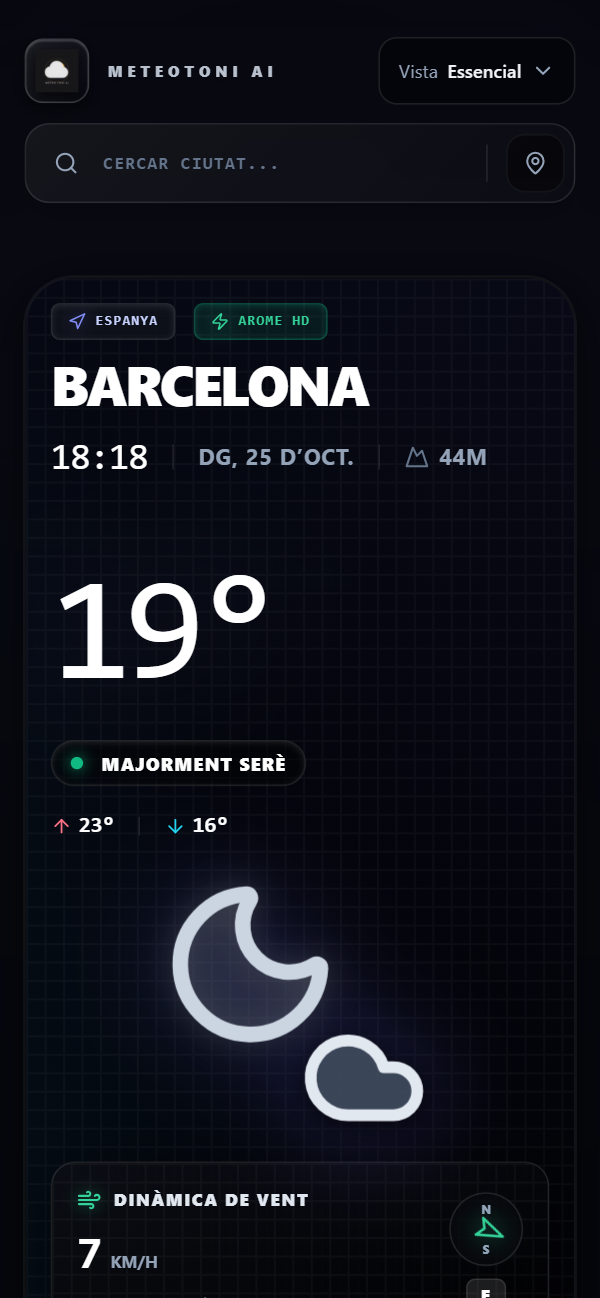
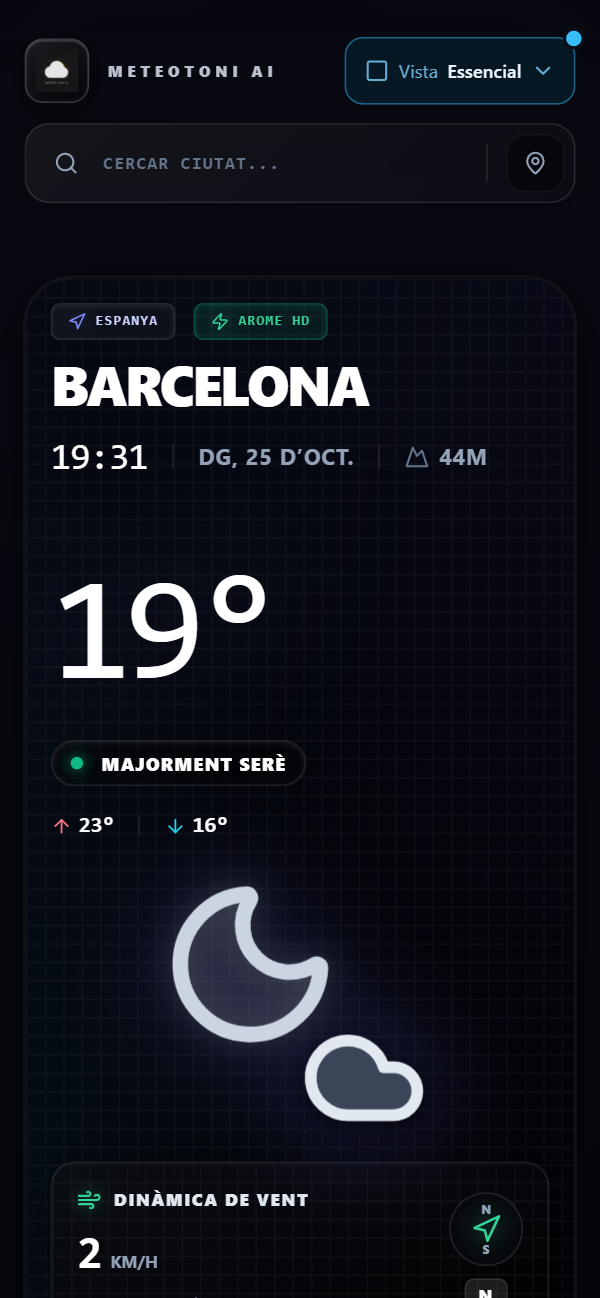
docs(readme): captura del tauler amb el xip «Vista» nou

diff --git a/README.md b/README.md
@@ -232,7 +232,7 @@ Per complementar l'anàlisi tàctica de la IA (horitzó de 6 hores) amb avisos d
 ### 15. Disseny Visual: Spatial UI & Neo-Skeuomorfisme
 Dissenyada sota el concepte de *Dark Dashboard* per facilitar la lectura ràpida sota qualsevol llum:
 * **Benvinguda «Columna del cel»:** la primera pantalla no consulta cap dada i és igual per a tothom: un esquema de l'aire que tens a sobre —núvols baixos, mitjans i alts, amb les mateixes alçades que el giny Capes de núvols— amb el camí del sol a l'hora actual i, de nit, la Lluna amb la fase real. La segona línia del titular pren el color del moment del dia (rosa a l'alba, or al migdia, taronja a la posta i lavanda de nit) i cada capa de la columna té el color de la seva alçada. En entrar, l'arc del dia es dibuixa i el sol (o la Lluna) hi fa el camí des de l'horitzó fins a l'hora d'ara: una sola vegada, en poc més d'un segon, i gens si el sistema demana reduir el moviment. A sobre del titular, l'hora i el moment del dia, amb un sol petit (mig sol a l'alba i a la posta): si ja havies donat permís d'ubicació, a quina hora surt i es pon el sol; si no, matí, migdia o tarda (amb la ciutat de la zona horària, les hores podrien anar mitja hora desviades); de nit, la Lluna dibuixada i la fase dita en paraules de cada dia («Lluna gairebé plena»). Les estrelles no passen mai per darrere del text, i el cercador i els favorits són translúcids: s'hi veu el cel a través. El cel és sempre el del lloc on és el dispositiu: la ciutat de referència de la seva zona horària o, si ja havies donat permís d'ubicació, la teva posició, sense tornar a preguntar; els llocs que consultes no el canvien. «Utilitza la meva ubicació» funciona amb un sol toc i el botó no es queda mai bloquejat: si el permís està denegat, la ubicació no està disponible o el GPS no respon, l'avís en diu la causa i el cercador i els favorits són just a sota. El càlcul del cel es carrega després del primer pintat (el paquet inicial no creix) i no hi ha desenfocaments ni animacions en bucle.
-* **Dues vistes, Essencial i Completa:** la vista essencial ensenya el temps d'ara, les pròximes hores i la setmana; la completa hi afegeix els ginys de detall (vent, pressió, núvols, qualitat de l'aire, sol i lluna…) i els gràfics per models. Es canvia amb el xip «Vista» de la capçalera, que obre un menú amb una frase per a cada vista, i l'app recorda l'última que has triat. A la vista essencial, just després del resum de la IA, la targeta «Vols més detall?» dona a conèixer la completa amb valors d'ara que no s'hi veuen —els mateixos que després diuen els ginys—; si ja l'has provada o toques «Ara no», queda reduïda a una sola línia. Si canvies des de dalt, la pàgina baixa fins on comença el contingut nou. Abans eren dos botons, «Bàsic» i «Expert», sense cap explicació al mòbil, i tocar «Expert» no canviava res de la primera pantalla: el contingut nou apareixia dues pantalles més avall.
+* **Dues vistes, Essencial i Completa:** la vista essencial ensenya el temps d'ara, les pròximes hores i la setmana; la completa hi afegeix els ginys de detall (vent, pressió, núvols, qualitat de l'aire, sol i lluna…) i els gràfics per models. Es canvia amb el xip «Vista» de la capçalera —en blau cel amb un quadre a l'essencial i en indi amb una graella a la completa, i amb un punt de novetat fins que l'obres per primer cop—, que obre un menú amb una frase per a cada vista, i l'app recorda l'última que has triat. A la vista essencial, just després del resum de la IA, la targeta «Vols més detall?» dona a conèixer la completa amb valors d'ara que no s'hi veuen —els mateixos que després diuen els ginys—; si ja l'has provada o toques «Ara no», queda reduïda a una sola línia. Si canvies des de dalt, la pàgina baixa fins on comença el contingut nou. Abans eren dos botons, «Bàsic» i «Expert», sense cap explicació al mòbil, i tocar «Expert» no canviava res de la primera pantalla: el contingut nou apareixia dues pantalles més avall.
 * **Modals lleugers per a mòbils modestos:** els modals del Sol, la Lluna i els dels ginys de la vista completa ja no fan servir desenfocaments de fons (`backdrop-filter`) ni filtres de desenfocament, ni animacions en bucle: les superfícies són opaques i les lluïssors i els cels són degradats estàtics que el navegador pinta una sola vegada, i amb el modal obert les animacions del tauler que queda tapat es posen en pausa. Les alçades dels seus fulls —i les del model regional i del radar— són un percentatge de la pantalla i no unitats `dvh`, així que també funcionen en navegadors i WebViews d'Android antics, on abans el botó de tancar podia quedar fora de la pantalla (i el mapa del radar, sense alçada).
 * **Ginys del Sol i la Lluna sense efectes cars:** cap desenfocament, filtre ni animació en bucle (abans, una lluentor animada sense parar a la Lluna, desenfocaments de 50 px i de fons, pulsos i perspectiva 3D). El dibuix de la corba del sol es fa un cop al dia i, cada minut, només es mouen el sol i els textos.
 * **Gràfics d'evolució a tota l'amplada:** a PC, el gràfic de 48 hores dels nou modals de detall quedava estret al mig del full, i el punt que segueix el ratolí no coincidia amb la línia (amb el ratolí al 75 % de l'amplada, el punt es dibuixava al 60 %). Ara el gràfic omple l'amplada sense que els traços es deformin, i el punt cau on hi ha el ratolí o el dit. A mòbil es veu igual que abans.
